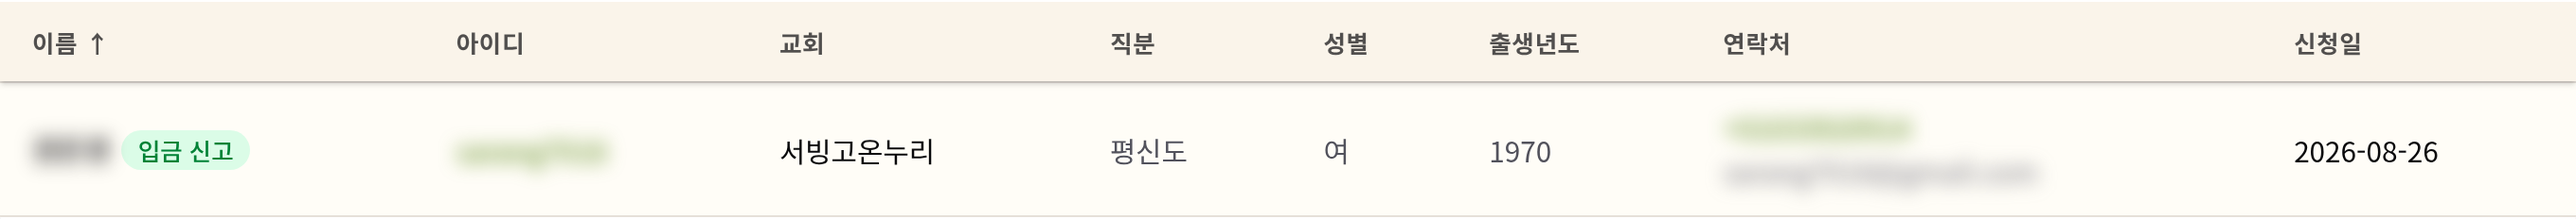
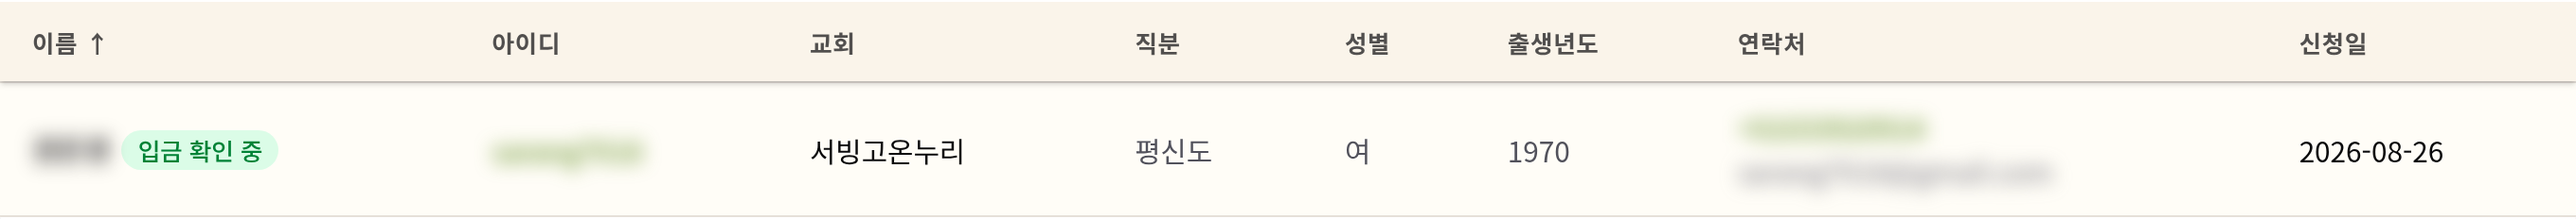
인도자 안내: 배지 이름이 「입금 확인 중」으로 바뀐 것 반영 (8곳 + 스샷 재촬영)
bee-app `6cc3fc8b` 로 인도자 화면 배지가 **「입금 신고」 → 「입금 확인 중」** 으로 바뀌었다.
학생 화면이 이미 쓰던 말이라, 이제 **학생과 인도자가 같은 글자를 본다.**

- 안내의 「입금 신고」 8곳 전부 교체 (남은 것 0)
- 스샷 `applicants-claimed.png` **다시 찍었다** — 옛 배지가 찍힌 그림을 두면 화면과 어긋난다
- 소제목을 「학생이 누른 버튼」 → **「학생이 알려온 것」** 으로. 「확인 중」은 상태지 버튼이 아니다
- 🔑 이제 이 항목의 첫 메시지는 **「학생 화면에도 똑같이 떠 있습니다」** —
  학생이 *"제 화면에는 입금 확인 중이라고 나오는데요"* 할 때 같은 것을 보고 있음을 알린다
- 주황 경고는 「입금 확인 중」≠「입금 **확인됨**」으로 — 이름 자체가 아직 아님을 말하게 됐다

diff --git a/lms/instructor-guide.html b/lms/instructor-guide.html
@@ -268,7 +268,7 @@
     <h2>차례</h2>
     <ol>
       <li><a href="#s1">명단 확인과 카톡방</a> <small>(개강 전)</small></li>
-      <li><a href="#s2">수강료 미납자 확인</a> <small>(「입금 신고」가 뭔가요?)</small></li>
+      <li><a href="#s2">수강료 미납자 확인</a> <small>(「입금 확인 중」이 뭔가요?)</small></li>
       <li><a href="#s3">채점 기준 정하기</a></li>
       <li><a href="#s4">「개강으로 전환」</a></li>
       <li><a href="#s5">진도와 점수 입력</a> <small>(학기 중)</small></li>
@@ -428,7 +428,7 @@
       <table>
         <thead><tr><th>배지</th><th>뜻</th></tr></thead>
         <tbody>
-          <tr><td class="badge-cell">입금 신고</td><td>학생이 스스로 「입금했어요」를 누른 것입니다 — <a href="#claimed">아래에서 자세히</a></td></tr>
+          <tr><td class="badge-cell">입금 확인 중</td><td>학생이 스스로 「입금했어요」를 누른 것입니다 — <a href="#claimed">아래에서 자세히</a></td></tr>
           <tr><td class="badge-cell">정회원 면제</td><td><strong>책값·후원금</strong>이 면제됩니다. 택배비 등은 청구될 수 있어 <strong>0원이 아닐 수 있습니다</strong></td></tr>
           <tr><td class="badge-cell">목회자·선교사 면제</td><td><strong>후원금만</strong> 면제됩니다 — 책값·택배비는 냅니다</td></tr>
           <tr><td class="badge-cell">재수강 / 미수료 재수강</td><td>이미 들은 과목을 다시 듣습니다. 둘은 내는 금액이 <strong>서로 다릅니다</strong> — 미수료 재수강은 무료, 수료 후 재수강은 후원금을 냅니다</td></tr>
@@ -445,15 +445,19 @@
       <strong>금액 문의는 인도자가 답하지 마시고 본부로</strong> 안내해 주십시오.
     </p>
 
-    <h3 id="claimed">「입금 신고」는 <em>학생이 누른 버튼</em>입니다</h3>
+    <h3 id="claimed">「입금 확인 중」은 <em>학생이 알려온 것</em>입니다</h3>
     <p>
       학생이 입금을 마치면 자기 화면에서 <span class="btn">입금했어요</span> 버튼을 누를 수 있습니다.
-      누르면 <strong>본부에 알림이 갑니다.</strong> 그 학생이 인도자 화면에는
-      <strong>「입금 신고」</strong>로 보입니다 — <strong>같은 일을 학생 쪽과 인도자 쪽에서 다르게 부르는 것</strong>뿐입니다.
+      누르면 <strong>본부에 알림이 가고</strong>, 그때부터 그 학생은 <strong>「입금 확인 중」</strong>이 됩니다.
     </p>
+    <div class="flag good">
+      <b>학생 화면에도 똑같이 「입금 확인 중」이라고 떠 있습니다.</b>
+      학생이 <strong>「제 화면에는 입금 확인 중이라고 나오는데요」</strong>라고 하면
+      인도자께서 보시는 그 배지와 <strong>같은 것</strong>입니다.
+    </div>
     <figure>
-      <img src="assets/applicants-claimed.png" alt="신청자 표의 한 줄 — 이름 옆에 연한 초록색 입금 신고 배지가 붙어 있고 교회·직분·성별·출생년도·연락처·신청일이 이어진다">
-      <figcaption>신청자 표에서 이름 옆에 붙는 <strong>「입금 신고」</strong>. 개인정보는 가렸습니다.</figcaption>
+      <img src="assets/applicants-claimed.png" alt="신청자 표의 한 줄 — 이름 옆에 연한 초록색 「입금 확인 중」 배지가 붙어 있고 교회·직분·성별·출생년도·연락처·신청일이 이어진다">
+      <figcaption>신청자 표에서 이름 옆에 붙는 <strong>「입금 확인 중」</strong>. 개인정보는 가렸습니다.</figcaption>
     </figure>
 
     <div class="tablewrap">
@@ -468,11 +472,11 @@
     </div>
 
     <div class="flag good">
-      <b>「입금 신고」가 붙은 학생에게는 입금 안내를 하지 않으셔도 됩니다.</b>
+      <b>「입금 확인 중」이 붙은 학생에게는 입금 안내를 하지 않으셔도 됩니다.</b>
       이미 보내신 분입니다. 안내가 필요한 쪽은 <strong>아무 배지도 없이 신청자에 남아 있는 분</strong>입니다.
     </div>
     <div class="flag">
-      <b>「입금 신고」는 「입금 확인」이 아닙니다.</b>
+      <b>「입금 확인 중」은 「입금 확인됨」이 아닙니다.</b>
       학생이 눌렀다는 뜻이지 돈이 들어왔다는 뜻이 아닙니다 —
       드물게 착오도 있어서, <strong>확인은 본부가 계좌를 보고</strong> 합니다.
       그래서 이 배지가 붙어 있어도 아직 신청자에 남아 있습니다.
